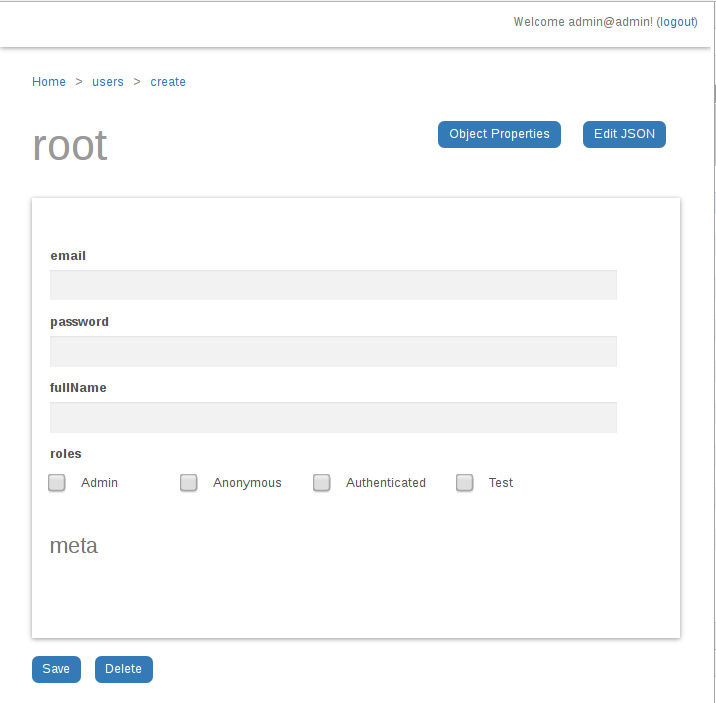
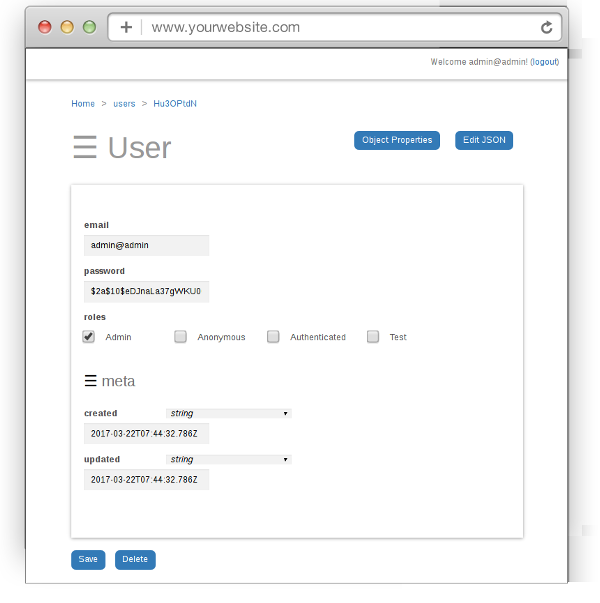
updated screenshot

diff --git a/css/style.css b/css/style.css
@@ -229,11 +229,12 @@ div.form-group select {
   text-indent:30px;
 }
 
-h2 h3::before {
+h3::before {
     content: '☰ ';
 }
 
-h2 h3 h3::before {
+h3 h3::before,
+div["data-schemaid"="root"] {
     content: '' !important;
 }
 
@@ -287,6 +288,8 @@ table.table.table-bordered tbody tr td {
 /*
  * set smaller input for specific fields
  */
+input[name=root\[email\]],
+input[name=root\[password\]],
 input[name=root\[meta\]\[created\]],
 input[name=root\[meta\]\[updated\]],
 input[name=root\[meta\]\[owner\]] {
